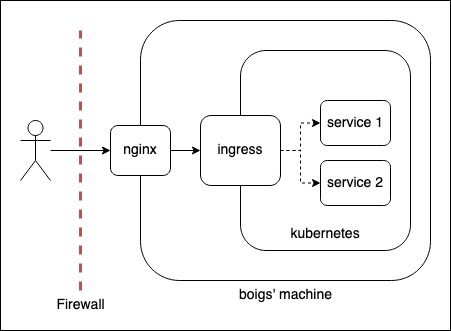
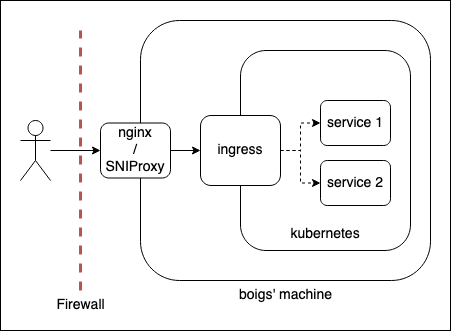
enable https

Changed region(s): [[0.2173, 0.3625, 0.3725, 0.5438]]

diff --git a/README.md b/README.md
@@ -26,15 +26,40 @@ Implememtation details:
 
 ## Setup
 
-Initialized with minikube ingress addon:
+Enable minikube's ingress addon:
 
 ```
 minikube addons enable ingress
 ```
 
-Start the nginx entrypoint and the ingress:
+Start everything:
 
 ```
 docker compose up -d
+kubectl apply -f cert-manager.yml
 kubectl apply -f ingress.yml
 ```
+
+Install [sniproxy](https://github.com/dlundquist/sniproxy) and run it with:
+
+```
+sudo sniproxy -c sniproxy.conf
+```
+
+### Why SNIProxy?
+
+Because we already have tech debt.
+
+Minikube should not be used for what we want to do, but instead we should opt for another
+solution like [k3s](https://k3s.io/) or [microk8s](https://microk8s.io). We cannot expose
+the ingress we have built without incurring in a lot more problems and security risks.
+
+Having said this, we can't route all the traffic through the nginx entrypoint either due to:
+- For HTTPS, nginx needs the certificate files. However, these live inside K8S and are
+managed by cert-manager.
+- We could use [ngx_stream_core_module](https://nginx.org/en/docs/stream/ngx_stream_core_module.html)
+but it's not enabled by default and nginx has to be built with a specific parameter. Also
+there are no (up-to-date) Docker images available that have this.
+
+Therefore, the easiest option we have is using SNIProxy, as seen
+[here](https://serverfault.com/q/1083973).
